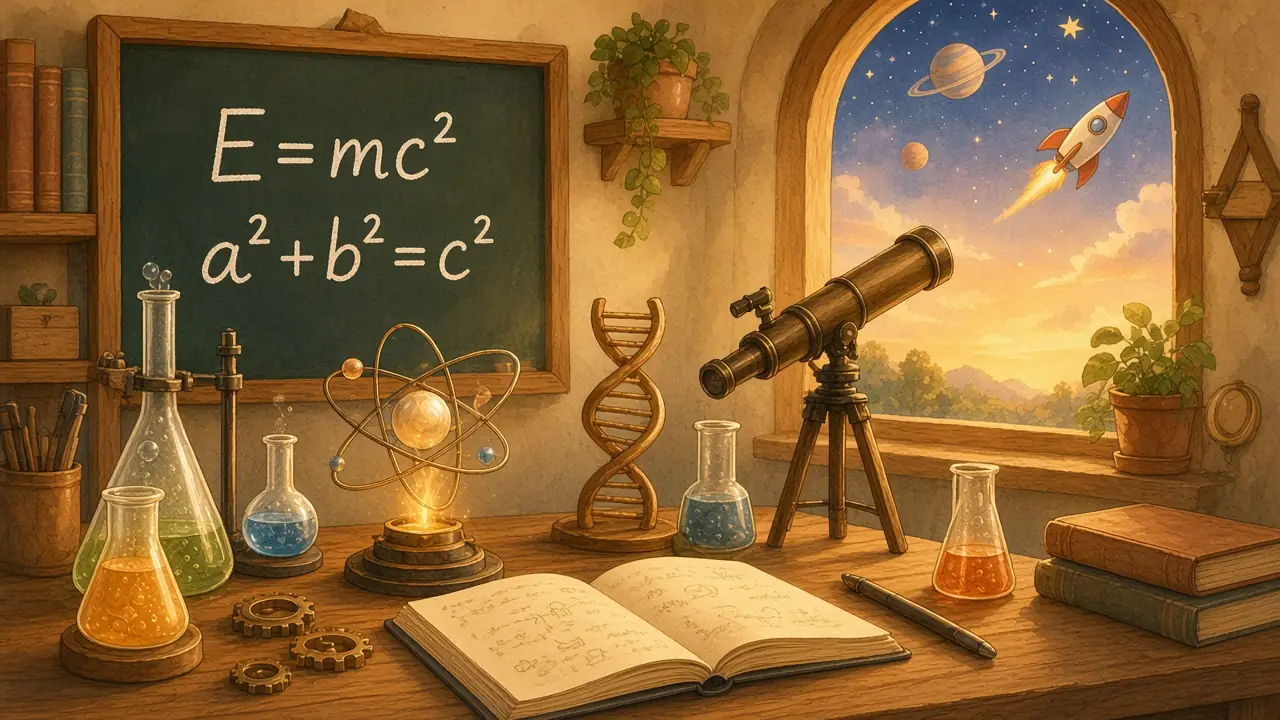
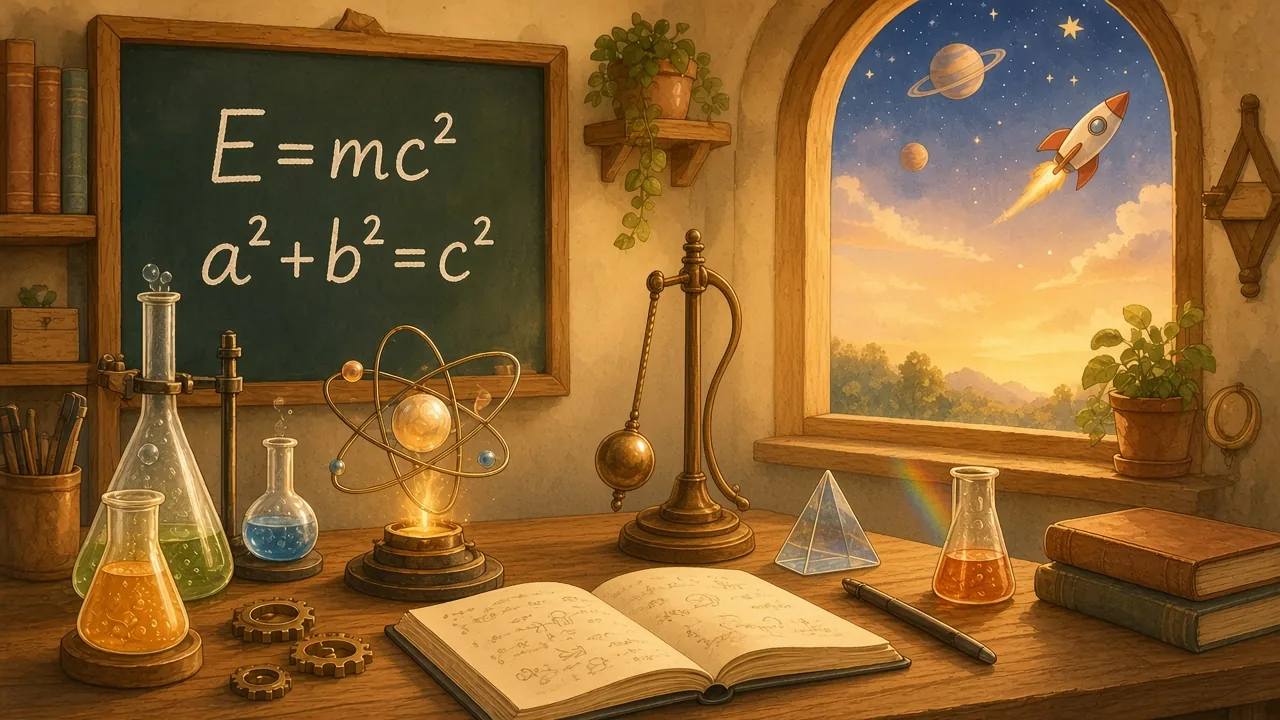
fix(why-learn): owner checklist t352u — no biology in the art, meaningful hero alt, wordmark, targeted spec
- Hero and montage repainted without the DNA helix (pendulum + prism in
  the hero, prism in the montage). Original art; provenance and encode
  settings in src/assets/why-learn/why-learn-art.ts. Hero 125,678 B
  (q82), montage 78,624 B (q70).
- Hero is a content image now: meaningful alt, eager, fixed aspect ratio
  per breakpoint. Montage stays a CSS background.
- MERIDIAN wordmark (not interactive) beside Home; header row wraps.
- tests/e2e/why-learn-page.desktop.spec.ts: 3 ages x 1280/390, names
  start with the subject, Journals closed, Tab order + focus ring, no
  sideways scroll at 320/390, nothing clipped at 1440, reduced motion.
  Listed in CONTEXT_FILES.
- Six screenshots under docs/reviews/2026-11-13-nav-home-council/shots/.

diff --git a/tests/e2e/why-learn-page.desktop.spec.ts b/tests/e2e/why-learn-page.desktop.spec.ts
@@ -1,0 +1,162 @@
+import { test, expect, type Browser, type Page } from "playwright/test";
+import { serveBuiltArtifact } from "./helpers";
+
+/**
+ * Why Do We Learn This? — the owner's A+B layout (2026-11-13, checklist
+ * t352u). Targeted spec for this one screen:
+ *
+ * - all three age groups (7-10, 10-18, 18+) at 1280 and 390: same layout,
+ *   only the ages line changes; a screenshot of each for the PR;
+ * - each ready card is one button whose accessible name starts with the
+ *   subject name and shows an "N cases" pill; Journals is "Coming soon",
+ *   disabled and out of the Tab order;
+ * - Tab order is Home, then the cards left to right, top to bottom, each
+ *   with a visible focus outline;
+ * - the hero has meaningful alt text, loads eagerly and has a fixed box;
+ *   the montage is a CSS background (nothing to focus or announce);
+ * - no sideways scroll at 390/320, nothing clipped at 1280/1440;
+ * - reduced motion: no card transition.
+ */
+test.setTimeout(180_000);
+
+const APP_URL = "http://127.0.0.1:4123/Meridian/?idle-ms=3600000";
+const PROFILE_KEY = "meridian.ageProfile.v1";
+const BANDS = ["7-10", "10-18", "18+"] as const;
+const SUBJECTS = ["Math", "Physics", "Chemistry", "General knowledge", "Social studies", "Journals"];
+const SHOTS = process.env.WHY_LEARN_SHOTS_DIR;
+
+async function openPicker(browser: Browser, width: number, height: number, band: string, reducedMotion = false) {
+  const context = await browser.newContext({
+    viewport: { width, height },
+    serviceWorkers: "block",
+    reducedMotion: reducedMotion ? "reduce" : "no-preference",
+  });
+  await serveBuiltArtifact(context);
+  await context.addInitScript(
+    ({ key, b }) => {
+      window.localStorage.setItem(
+        key,
+        JSON.stringify({ status: "active", band: b, updatedAt: new Date().toISOString(), changeCount: 0, schemaVersion: 2 }),
+      );
+    },
+    { key: PROFILE_KEY, b: band },
+  );
+  const page = await context.newPage();
+  await page.goto(APP_URL);
+  await page.getByRole("button", { name: "Why Do We Learn This?: Start exploring" }).click();
+  await expect(page.getByTestId("subject-picker")).toBeVisible();
+  await expect(page.getByTestId("subject-row-math")).toBeVisible({ timeout: 30_000 });
+  return { context, page };
+}
+
+async function noSideways(page: Page, label: string) {
+  const { sw, iw } = await page.evaluate(() => ({ sw: document.documentElement.scrollWidth, iw: innerWidth }));
+  expect(sw, `${label}: page wider than the viewport`).toBeLessThanOrEqual(iw);
+}
+
+for (const vp of [
+  { width: 1280, height: 800 },
+  { width: 390, height: 844 },
+]) {
+  for (const band of BANDS) {
+    test(`Why Learn A+B at ${vp.width} for ages ${band}`, async ({ browser }) => {
+      const { context, page } = await openPicker(browser, vp.width, vp.height, band);
+      const tag = `${vp.width} ages ${band}`;
+
+      await expect(page.getByText(`Pick a subject · Ages ${band}`)).toBeVisible();
+
+      // Hero: meaningful alt, eager, fixed box before load (CSS aspect-ratio).
+      const hero = page.locator(".why-learn-hero");
+      await expect(hero).toHaveAttribute("alt", /chalkboard/);
+      await expect(hero).toHaveAttribute("loading", "eager");
+      const ratio = await hero.evaluate((el) => getComputedStyle(el).aspectRatio);
+      expect(ratio, `${tag}: hero aspect ratio`).not.toBe("auto");
+
+      // Montage: decoration in CSS only.
+      const montage = await page
+        .getByTestId("subject-picker")
+        .evaluate((el) => getComputedStyle(el, "::after").backgroundImage);
+      expect(montage, `${tag}: montage is a CSS background`).toContain("why-learn-montage");
+
+      // Cards: names start with the subject, count pill, Journals closed.
+      const cards = page.locator('[data-testid^="subject-row-"]');
+      await expect(cards).toHaveCount(SUBJECTS.length);
+      for (const [i, subject] of SUBJECTS.entries()) {
+        const card = cards.nth(i);
+        const id = await card.getAttribute("data-testid");
+        // Accessible name (not just text) starts with the subject name.
+        const byName = page.getByRole("button", { name: new RegExp(`^${subject}\\b`) });
+        await expect(byName.and(page.getByTestId(id!)), `${tag}: card ${i + 1} name starts with ${subject}`).toHaveCount(1);
+        if (subject === "Journals") {
+          await expect(card).toBeDisabled();
+          await expect(card).toContainText("Coming soon");
+        } else if (await card.isEnabled()) {
+          await expect(card.locator(".why-learn-chip")).toHaveText(/^\d+ cases?$/);
+          await expect(card).toContainText("Open case");
+        }
+      }
+
+      // Tab order: Home, then each enabled card in DOM (reading) order.
+      await page.getByTestId("home-button").focus();
+      const enabled = await cards.evaluateAll((els) =>
+        els.filter((e) => !(e as HTMLButtonElement).disabled).map((e) => e.getAttribute("data-testid")),
+      );
+      for (const id of enabled) {
+        await page.keyboard.press("Tab");
+        const focused = await page.evaluate(() => {
+          const el = document.activeElement as HTMLElement | null;
+          return { id: el?.getAttribute("data-testid"), outline: el ? getComputedStyle(el).outlineStyle : "none" };
+        });
+        expect(focused.id, `${tag}: Tab order`).toBe(id);
+        expect(focused.outline, `${tag}: focus ring on ${id}`).not.toBe("none");
+      }
+      // Reading order holds: each card starts at or below/right of the last.
+      const boxes = await cards.evaluateAll((els) => els.map((e) => e.getBoundingClientRect()).map((b) => [b.top, b.left]));
+      for (let i = 1; i < boxes.length; i++) {
+        const [t0, l0] = boxes[i - 1];
+        const [t1, l1] = boxes[i];
+        expect(t1 > t0 + 1 || (Math.abs(t1 - t0) <= 1 && l1 > l0), `${tag}: card ${i + 1} follows card ${i}`).toBe(true);
+      }
+
+      await noSideways(page, tag);
+      if (SHOTS) {
+        await page.mouse.move(1, 1);
+        await page.evaluate(() => (document.activeElement as HTMLElement | null)?.blur());
+        await page.screenshot({ path: `${SHOTS}/why-learn-${vp.width}-ages-${band.replace("+", "plus")}.png`, fullPage: true });
+      }
+      await context.close();
+    });
+  }
+}
+
+test("Why Learn: no sideways scroll at 320, nothing clipped at 1440", async ({ browser }) => {
+  for (const vp of [
+    { width: 320, height: 568 },
+    { width: 1440, height: 900 },
+  ]) {
+    const { context, page } = await openPicker(browser, vp.width, vp.height, "10-18");
+    await noSideways(page, `${vp.width}`);
+    const clipped = await page.evaluate(() =>
+      [...document.querySelectorAll('[data-testid="subject-picker"] *')]
+        .filter((e) => {
+          const b = e.getBoundingClientRect();
+          return b.width > 0 && (b.right > innerWidth + 0.5 || b.left < -0.5);
+        })
+        .map((e) => e.className),
+    );
+    expect(clipped, `${vp.width}: elements past the viewport edge`).toEqual([]);
+    await context.close();
+  }
+});
+
+test("Why Learn under reduced motion: cards do not animate", async ({ browser }) => {
+  const { context, page } = await openPicker(browser, 1280, 800, "10-18", true);
+  const card = page.getByTestId("subject-row-math");
+  const transition = await card.evaluate((el) => getComputedStyle(el).transitionDuration);
+  // The app's global reduced-motion reset leaves 0.01ms; nothing visible.
+  expect(transition.split(",").every((d) => parseFloat(d) <= 0.001), `transition ${transition}`).toBe(true);
+  await card.hover();
+  const transform = await card.evaluate((el) => getComputedStyle(el).transform);
+  expect(transform).toBe("none");
+  await context.close();
+});

diff --git a/src/assets/why-learn/why-learn-art.ts b/src/assets/why-learn/why-learn-art.ts
@@ -1,31 +1,35 @@
 /**
- * Why Learn page art (owner pick, 2026-11-13: "Go with the A+B blend").
+ * Why Learn page art (owner pick, 2026-11-13: "Go with the A+B blend";
+ * owner checklist t352u: no biology anywhere).
  *
- * Two decorative stills, both ORIGINAL art generated for the Why Learn
- * mockups (docs/reviews/2026-11-13-nav-home-council/); no TV-show
- * imagery, characters, logos or footage, no religion or politics. Both
- * are decoration only: the montage is a CSS background and the hero is
- * an <img alt="" aria-hidden>. No motion. Both are hidden under the
- * high-contrast palette, prefers-contrast: more and forced colours
- * (styles.css, "Why Learn page").
+ * Two stills, both ORIGINAL art generated for the Why Learn mockups
+ * (docs/reviews/2026-11-13-nav-home-council/); no TV-show imagery,
+ * characters, logos or footage, no religion or politics, and no biology
+ * (the mockup's DNA helix was repainted out of both: a pendulum and a
+ * prism in the hero, a prism in the montage). Potted plants are room
+ * decor only. No motion.
  *
- * - why-learn-montage.webp — option A's sepia science montage
- *   (chalkboard equation, atom, planets, rocket, glassware) over pale
- *   hills. 1280×720, WebP lossy, 81,864 bytes (79.9 KiB). Shown faint:
- *   a 62% parchment veil plus a warm wash sit over it, so it reads at
- *   about 38% and no text sits directly on it.
- * - why-learn-hero.webp — option B's warm study scene for the A+B
- *   blend (desk, chalkboard, telescope). 1280×720, WebP lossy, 91,174
- *   bytes (89.0 KiB), cropped by the box with object-fit: cover.
+ * - why-learn-montage.webp: pencil-and-sepia science montage (atom,
+ *   planets, E = mc², a² + b² = c², flask, rocket, prism, telescope,
+ *   gears, pocket watch) over pale hills. Decorative: a CSS background
+ *   only (styles.css, "Why Learn page"), never focusable, no alt. Shown
+ *   faint under a 62% parchment veil plus a warm wash (≈ 38%), so no
+ *   text sits directly on it. 1280×720, WebP lossy quality 70, method 6,
+ *   78,624 bytes. Budget ≤ 80 KiB.
+ * - why-learn-hero.webp: warm study scene (chalkboard, flasks, atom
+ *   model, pendulum, prism, telescope at a window). Content image with
+ *   the alt text below; above the fold, so loaded eagerly. Fixed aspect
+ *   ratio per breakpoint in CSS, width/height attributes set, so no
+ *   layout shift. 1280×720, WebP lossy quality 82, method 6, 125,678
+ *   bytes. Budget < 250 KB.
  *
- * Encode: both files ship exactly as the mockup step encoded them. A
- * fresh pass at quality 82 from these files measured larger
- * (montage 91,096 B, hero 104,058 B) and would add a second lossy
- * generation, so neither was re-encoded. Budget: ≤ 80 KiB montage,
- * ≤ 90 KiB hero; a replacement must stay inside it.
+ * Both are hidden under the high-contrast palette, prefers-contrast:
+ * more and forced colours. A replacement must stay inside the budgets
+ * and the content rules above.
  */
-// The montage is a CSS background (styles.css, "Why Learn page"), so only
-// the hero is imported here.
 import heroUrl from "./why-learn-hero.webp";
 
 export const WHY_LEARN_HERO_URL: string = heroUrl;
+
+export const WHY_LEARN_HERO_ALT =
+  "Illustrated study desk: a chalkboard reading E = mc² and a² + b² = c², glass flasks, an atom model, a swinging pendulum, a prism casting a rainbow, and a telescope by a window with a rocket in the evening sky.";

diff --git a/src/subjects/shared/SubjectPicker.tsx b/src/subjects/shared/SubjectPicker.tsx
@@ -18,7 +18,7 @@ import type { CelebrationSpec } from "@/components/celebration-copy";
 import { pickerRows } from "./picker-rows";
 import { ScreenShell } from "@/components/ui/screen-shell";
 import { ArrowRight, Atom, BookOpen, Calculator, FlaskConical, Globe2, Users, type LucideIcon } from "lucide-react";
-import { WHY_LEARN_HERO_URL } from "@/assets/why-learn/why-learn-art";
+import { WHY_LEARN_HERO_ALT, WHY_LEARN_HERO_URL } from "@/assets/why-learn/why-learn-art";
 
 /** Decorative card icons by subject id (aria-hidden; the name is the text). */
 const SUBJECT_ICONS: Record<string, LucideIcon> = {
@@ -109,12 +109,18 @@ export default function SubjectPicker({
         <img
           className="why-learn-hero"
           src={WHY_LEARN_HERO_URL}
-          alt=""
-          aria-hidden="true"
+          alt={WHY_LEARN_HERO_ALT}
           width={1280}
           height={720}
+          loading="eager"
           decoding="async"
         />
+      }
+      sound={
+        <span className="why-learn-wordmark">
+          <svg viewBox="0 0 48 48" aria-hidden="true" focusable="false"><circle cx="24" cy="24" r="21.5" fill="none" stroke="#8A6D2F" strokeWidth="1.6" /><path d="M24 6 L27.2 20.8 L42 24 L27.2 27.2 L24 42 L20.8 27.2 L6 24 L20.8 20.8 Z" fill="#8A6D2F" /><circle cx="24" cy="24" r="3.4" fill="#F6F1E3" stroke="#8A6D2F" strokeWidth="1.2" /></svg>
+          MERIDIAN
+        </span>
       }
       data={{ "data-band": band }}
       eyebrow="Case file · Why it matters"

diff --git a/src/styles.css b/src/styles.css
@@ -2241,12 +2241,39 @@
   background: #fdfaf2;
   border-radius: 18px;
 }
+/* Fixed aspect ratio per breakpoint (plus width/height attributes): the
+   box is sized before the picture loads, so there is no layout shift. */
 .why-learn-hero {
   display: block;
   width: 100%;
-  height: clamp(150px, 28vw, 300px);
+  height: auto;
+  aspect-ratio: 16 / 7;
   object-fit: cover;
-  object-position: 50% 45%;
+  object-position: 50% 50%;
+}
+@media (min-width: 681px) {
+  .why-learn-hero {
+    aspect-ratio: 32 / 9;
+  }
+}
+.why-learn-wordmark {
+  margin-left: auto;
+  display: inline-flex;
+  align-items: center;
+  gap: 8px;
+  min-height: 44px;
+  padding: 0 12px;
+  border-radius: 999px;
+  background: rgba(253, 250, 242, 0.92);
+  color: #1b2b31;
+  font-family: var(--font-atlas-display);
+  font-size: 15px;
+  font-weight: 600;
+  letter-spacing: 0.18em;
+}
+.why-learn-wordmark svg {
+  width: 22px;
+  height: 22px;
 }
 .why-learn-card {
   min-height: 88px;

diff --git a/src/components/ui/screen-shell.tsx b/src/components/ui/screen-shell.tsx
@@ -33,7 +33,7 @@ export function ScreenShell({
   /** A one-step back inside a drill-down (not home): labelled "Back". */
   | { onBack: () => void; onHome?: never }
 ) & {
-  /** A SoundToggle, only when the screen plays sound. */
+  /** Trailing header item: a SoundToggle, or a non-interactive wordmark. */
   sound?: ReactNode;
   /** Optional decorative picture above the titles; the titles then sit on
    *  an opaque band under it (never text over picture pixels). */
@@ -64,7 +64,7 @@ export function ScreenShell({
       {...data}
     >
       <header>
-        <div className="flex items-center gap-2">
+        <div className="flex flex-wrap items-center gap-2">
           {onHome ? (
             <HomeButton onHome={onHome} className="-ml-3" />
           ) : (
